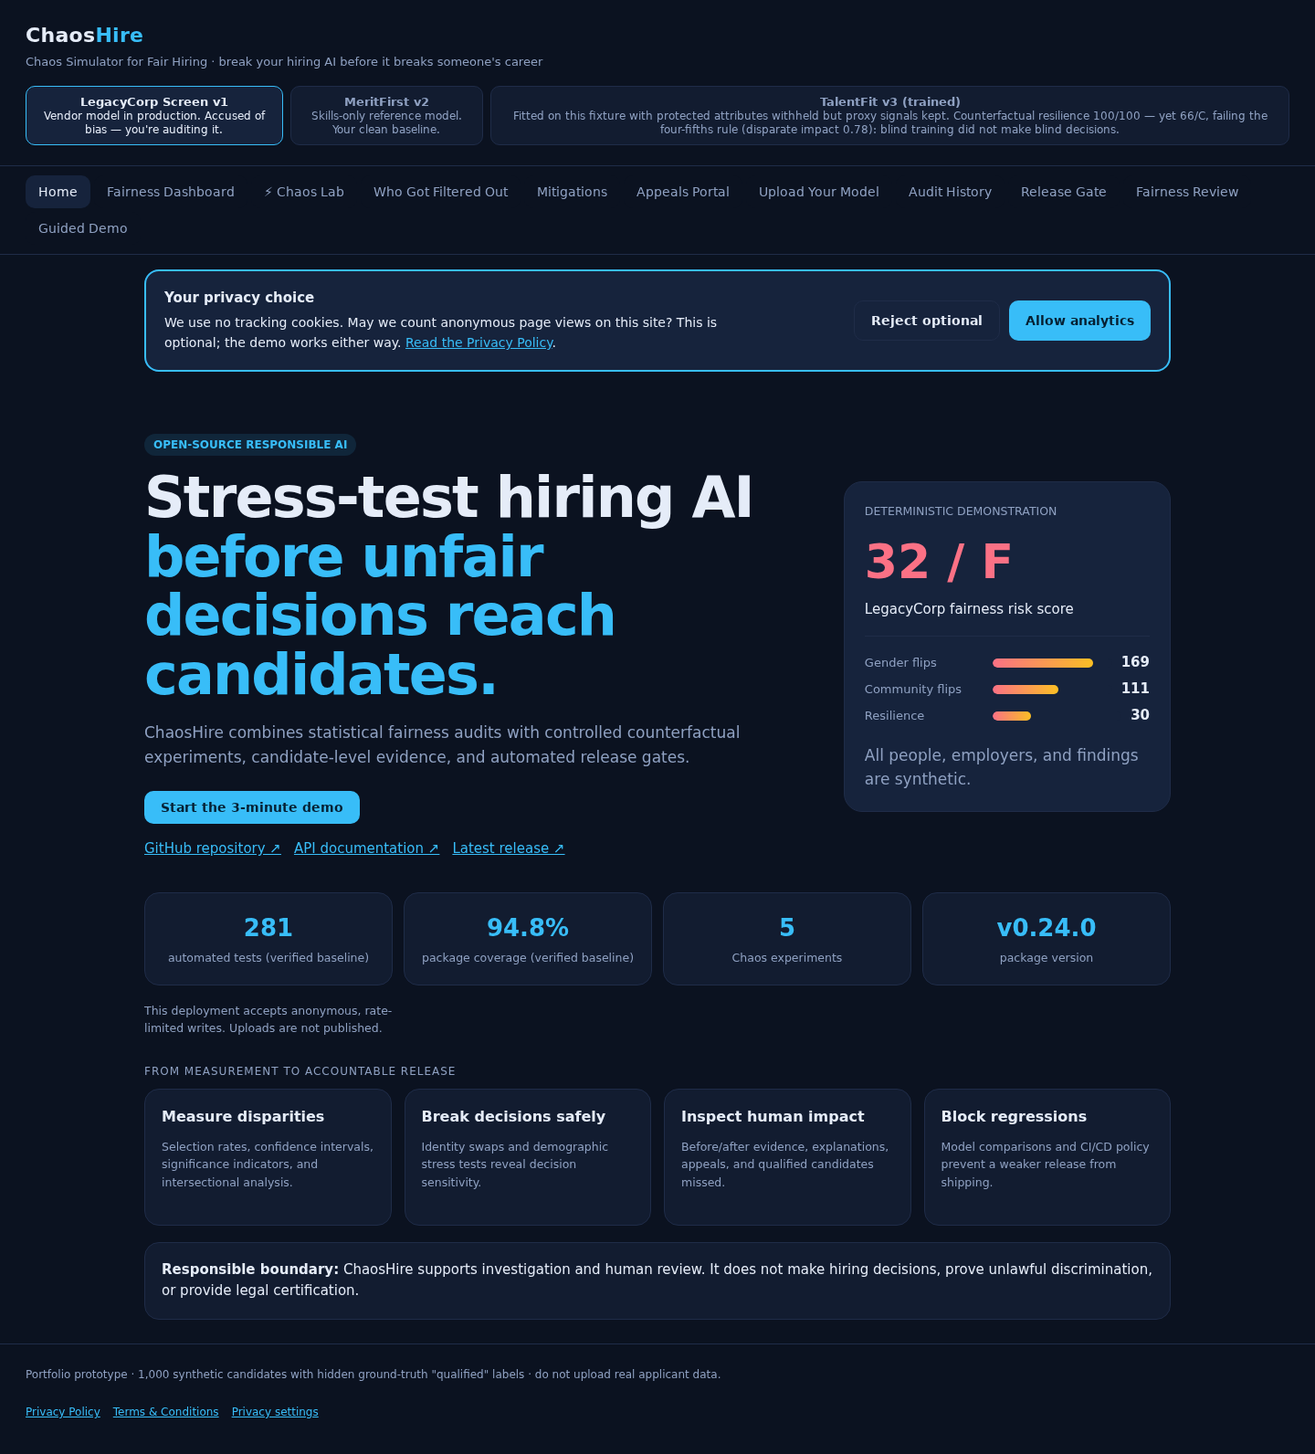
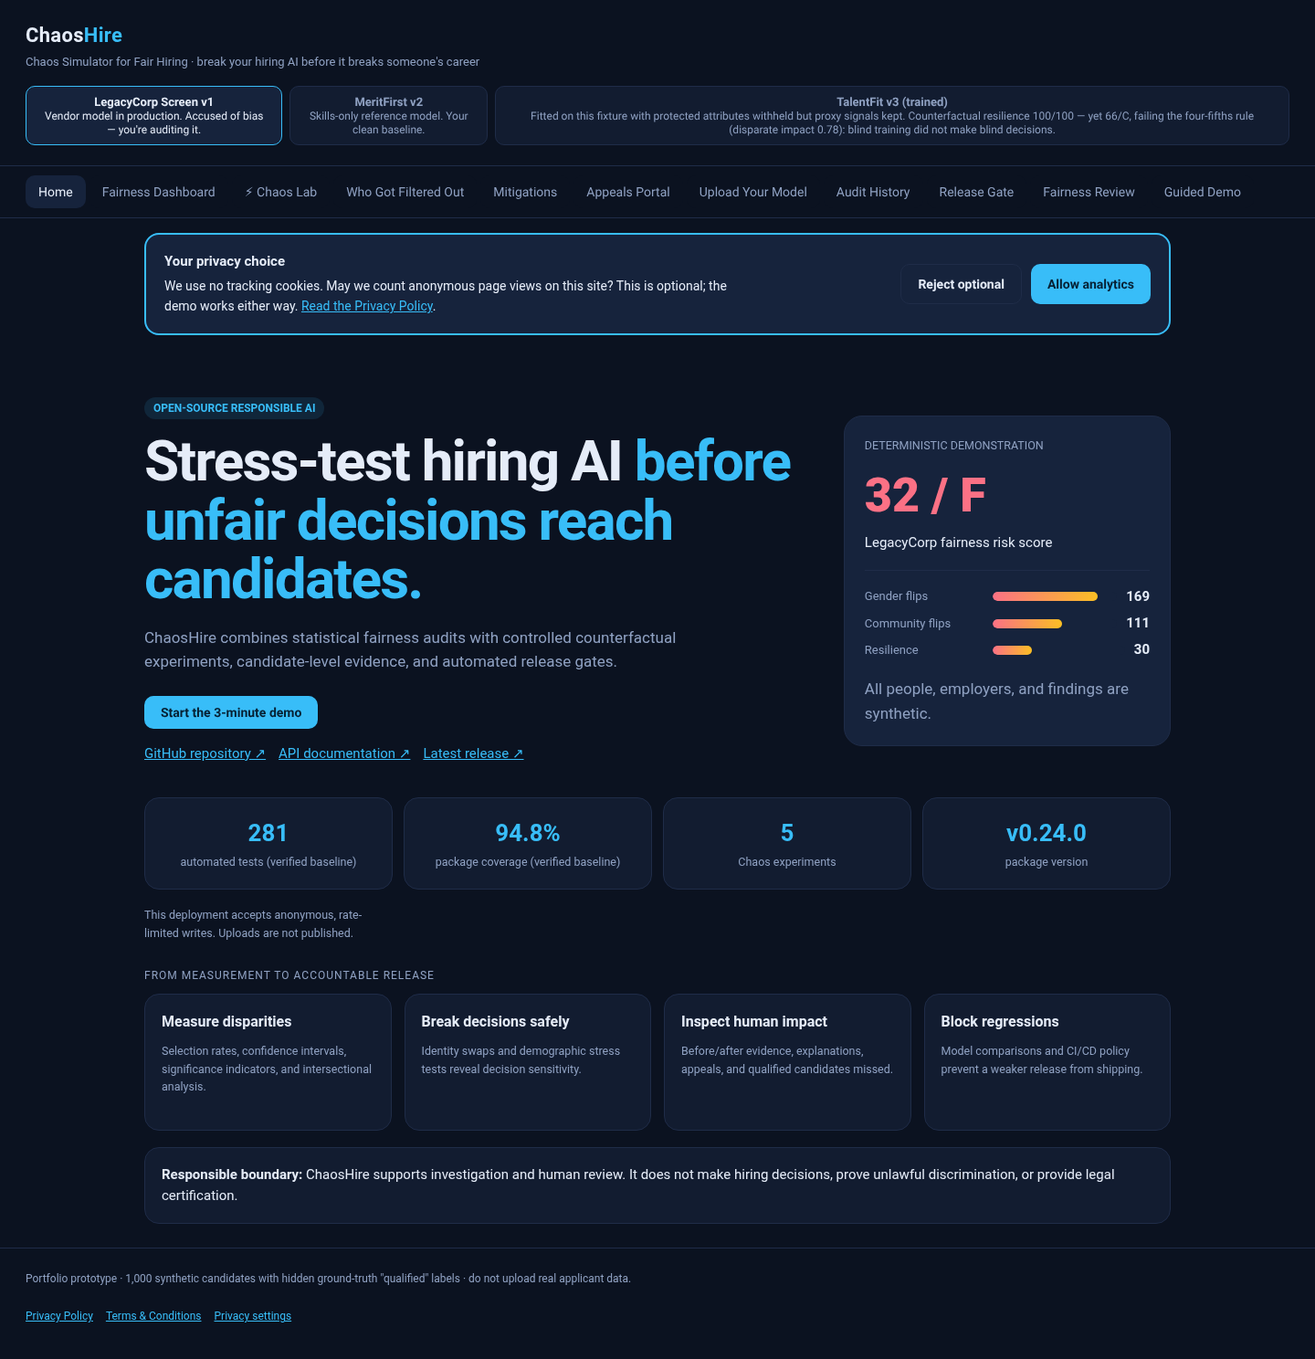
Fix the three card-overflow layout bugs and sweep every tab in the checks
Layout fixes (CSS only, no redesign):
- Fairness Dashboard score card: the .flex-card row now wraps the 210px text
  column under the 120px score ring (and .flex-col can shrink via min-width:0)
  instead of spilling 69-111px outside the card and scrolling the page sideways
  at 1024px and 320px.
- Upload Your Model on phones: .g2/.g4 auto-fit tracks use the safe
  minmax(min(...,100%),1fr) floor and grid children get min-width:0, so the
  long <pre id="schema"> lines scroll inside their own box instead of dragging
  both cards to 1155px and the page ~800px wide.
- 320px cards in group-fairness, Release Gate and Fairness Review grids shrank
  their 1fr (minmax(auto,1fr)) tracks to content; minmax(0,1fr) plus the nested
  .upload-cols/.gate-cols/.history-detail-grid floors keep every card inside the
  viewport. Long unbreakable <code> evidence paths wrap (overflow-wrap:anywhere).

Checks now cover every tab:
- tests/browser/test_layout.py opens all 11 tabs at 1440/1024/390/320px and
  fails on page-level sideways scrolling or content escaping its .card,
  ignoring the Appeals honeypot and content inside overflow-x:auto boxes.
- scripts/check_live_site.py clicks through every tab in its Layout check
  instead of only the home page and /privacy.

Docs and evidence:
- Re-captured docs/portfolio/assets/*.png with Roboto installed (font-roboto);
  the dashboard shot no longer shows the score-card spill.
- WEBSITE-READINESS.md snapshot refreshed with Live site checks run #1
[…]

diff --git a/chaoshire/web/static/chaoshire.css b/chaoshire/web/static/chaoshire.css
@@ -22,8 +22,13 @@ nav button.on{background:var(--card2);color:var(--txt)}
 main{padding:26px 28px;max-width:1180px;margin:0 auto}
 .tab-heading{font-size:22px;margin:4px 0 18px}
 .grid{display:grid;gap:14px}
-.g4{grid-template-columns:repeat(auto-fit,minmax(220px,1fr))}
-.g2{grid-template-columns:repeat(auto-fit,minmax(340px,1fr))}
+/* Auto-fit tracks use min() so the floor never exceeds a narrow (or nested)
+   container, and grid children get min-width:0 so long unbreakable content
+   (the upload <pre>, code paths) scrolls/wraps inside its card instead of
+   stretching the track — the safe minmax(0,…) pattern. */
+.g4{grid-template-columns:repeat(auto-fit,minmax(min(220px,100%),1fr))}
+.g2{grid-template-columns:repeat(auto-fit,minmax(min(340px,100%),1fr))}
+.grid>*{min-width:0}
 .card{background:var(--card);border:1px solid var(--line);border-radius:16px;padding:18px}
 .card h3{font-size:15px;margin-bottom:10px}
 .stat-num{font-size:28px;font-weight:700}
@@ -55,6 +60,7 @@ label{font-size:12.5px;color:var(--dim);display:block;margin:10px 0 5px}
 .mit input{width:auto;margin-top:4px}
 .kicker{font-size:12px;text-transform:uppercase;letter-spacing:1px;color:var(--dim);margin:22px 0 10px}
 .err{background:rgba(251,113,133,.1);border:1px solid rgba(251,113,133,.4);color:var(--rose);padding:10px 14px;border-radius:10px;font-size:13px;margin-top:10px}
+code{overflow-wrap:anywhere}
 pre{background:var(--card2);padding:12px;border-radius:10px;font-size:12px;overflow:auto;border:1px solid var(--line)}
 footer{padding:24px 28px;color:var(--dim);font-size:12px;border-top:1px solid var(--line)}
 .hidden{display:none}
@@ -94,8 +100,11 @@ button:focus-visible,a:focus-visible,input:focus-visible,textarea:focus-visible,
 .lbl-auto{width:auto;flex:1}
 .lbl-wide{width:170px}
 .lbl-auto-nw{width:auto}
-.flex-card{display:flex;align-items:center;gap:14px}
-.flex-col{flex:1}
+/* The score card wraps the text column under the ring when the 120px ring and
+   the 210px text column cannot share one line, instead of spilling past the
+   card; min-width:0 keeps the column shrinkable inside narrow tracks. */
+.flex-card{display:flex;align-items:center;gap:14px;flex-wrap:wrap}
+.flex-col{flex:1 1 210px;min-width:0}
 .flex-row{display:flex;gap:8px;flex-wrap:wrap}
 .flex-row-between{display:flex;justify-content:space-between;gap:10px;align-items:start}
 .flex-row-center{display:flex;justify-content:space-between;align-items:center}
@@ -131,7 +140,7 @@ button:focus-visible,a:focus-visible,input:focus-visible,textarea:focus-visible,
 .nowrap{white-space:nowrap}
 .overflow-card{overflow:auto}
 .upload-privacy{color:var(--amber);border-color:rgba(251,191,36,.4);background:rgba(251,191,36,.08)}
-.upload-cols{display:grid;grid-template-columns:repeat(auto-fit,minmax(180px,1fr));gap:0 12px}
+.upload-cols{display:grid;grid-template-columns:repeat(auto-fit,minmax(min(180px,100%),1fr));gap:0 12px}
 .download-actions{margin-top:14px;display:flex;gap:8px;flex-wrap:wrap}
 .appeal-lookup{display:flex;gap:8px}
 .appeal-bar{margin:10px 0}
@@ -143,9 +152,9 @@ button:focus-visible,a:focus-visible,input:focus-visible,textarea:focus-visible,
 .history-overflow{overflow:auto;margin-top:12px}
 .history-detail{margin-top:14px}
 .history-detail-head{display:flex;justify-content:space-between;gap:12px;flex-wrap:wrap}
-.history-detail-grid{display:grid;grid-template-columns:repeat(4,1fr);margin-top:14px}
+.history-detail-grid{display:grid;grid-template-columns:repeat(4,minmax(0,1fr));margin-top:14px}
 .history-detail-note{margin-top:12px}
-.gate-cols{display:grid;grid-template-columns:repeat(auto-fit,minmax(180px,1fr));gap:0 12px}
+.gate-cols{display:grid;grid-template-columns:repeat(auto-fit,minmax(min(180px,100%),1fr));gap:0 12px}
 .details-evidence{margin-top:10px}
 .details-evidence summary{cursor:pointer;color:var(--blue)}
 .details-evidence-inner{overflow:auto;margin-top:7px}
@@ -164,7 +173,7 @@ button:focus-visible,a:focus-visible,input:focus-visible,textarea:focus-visible,
 .review-title{margin-top:9px}
 
 @media(max-width:760px){.hero{grid-template-columns:1fr;padding-top:28px}.proof{grid-template-columns:repeat(2,1fr)}}
-@media(max-width:600px){header,nav,main,footer{padding-left:14px;padding-right:14px}.g2{grid-template-columns:1fr}.modelsel{width:100%;display:grid;grid-template-columns:repeat(2,minmax(0,1fr));overflow:visible}.mbtn{min-width:0;min-height:44px;padding:10px 8px;overflow-wrap:anywhere}.mbtn:last-child{grid-column:1/-1}nav{flex-wrap:nowrap;overflow-x:auto}nav button{white-space:nowrap;min-height:44px}.card{padding:14px}.stat-num{font-size:24px}.btn{min-height:44px}table{min-width:620px}.hero h2{font-size:38px;letter-spacing:-1px}.proof{grid-template-columns:1fr 1fr}.hero-panel{padding:16px}}
+@media(max-width:600px){header,nav,main,footer{padding-left:14px;padding-right:14px}.g2{grid-template-columns:minmax(0,1fr)}.modelsel{width:100%;display:grid;grid-template-columns:repeat(2,minmax(0,1fr));overflow:visible}.mbtn{min-width:0;min-height:44px;padding:10px 8px;overflow-wrap:anywhere}.mbtn:last-child{grid-column:1/-1}nav{flex-wrap:nowrap;overflow-x:auto}nav button{white-space:nowrap;min-height:44px}.card{padding:14px}.stat-num{font-size:24px}.btn{min-height:44px}table{min-width:620px}.hero h2{font-size:38px;letter-spacing:-1px}.proof{grid-template-columns:1fr 1fr}.hero-panel{padding:16px}}
 /* Public pages, consent preferences, and validated demo forms. */
 [hidden]{display:none!important}
 .brand-link{color:var(--txt);font-size:22px;font-weight:700;letter-spacing:.3px;text-decoration:none}

diff --git a/tests/browser/test_layout.py b/tests/browser/test_layout.py
@@ -1,0 +1,142 @@
+"""Every tab must fit both the viewport and its cards at phone and desktop widths.
+
+Regression sweep for three layout bugs found by opening every tab at
+1440/1280/1024/768/390/320px in Chromium:
+
+1. the Fairness Dashboard score card let the 210px text column beside the
+   120px score ring spill past the card (and the page scrolled sideways at
+   1024px and 320px);
+2. on phones the Upload tab's ``<pre id="schema">`` stretched the ``.g2``
+   track (``1fr`` is ``minmax(auto,1fr)``), so both cards became as wide as
+   the longest schema line and the page scrolled ~800px sideways;
+3. the same ``1fr`` pattern let a few cards outgrow their track by 4-28px at
+   320px (group-fairness, Release Gate and Fairness Review cards).
+
+Two kinds of deliberate overflow are excluded from the card-escape check: the
+Appeals honeypot (the "Leave this blank" field sits off-screen on purpose as a
+spam trap) and anything inside a horizontally scrollable box (the "Who Got
+Filtered Out" table and the schema block scroll inside their own borders by
+design).
+"""
+
+from __future__ import annotations
+
+from playwright.sync_api import Page, sync_playwright
+from test_landing import running_app
+
+#: (width, height) pairs the layout bugs were originally reported at.
+VIEWPORTS = ((1440, 1000), (1024, 800), (390, 844), (320, 700))
+
+#: Every product tab, in the order the nav renders them.
+TAB_IDS = (
+    "welcome",
+    "overview",
+    "chaos",
+    "filtered",
+    "mitigations",
+    "appeals",
+    "upload",
+    "history",
+    "compare",
+    "agent",
+    "demo",
+)
+
+#: JS predicate that is true once a tab's content has finished rendering.
+#: Five tabs fetch their payload inside ``showTab``; measuring before the
+#: fetch resolves would race the loader and only test the spinner card.
+TAB_READY = {
+    "welcome": "() => !!document.querySelector('#tab-welcome .hero')",
+    "overview": "() => !!document.querySelector('#tab-overview .grid')",
+    "chaos": "() => !!document.querySelector('#tab-chaos .card')",
+    "filtered": "() => !!document.querySelector('#tab-filtered .grid')",
+    "mitigations": "() => !!document.querySelector('#tab-mitigations .mit')",
+    "appeals": "() => !!document.querySelector('#tab-appeals .appeal-lookup')",
+    "upload": "() => !!document.querySelector('#tab-upload #schema')",
+    "history": (
+        "() => {const s = document.querySelector('#tab-history');"
+        "return !!s.querySelector('.history-overflow') || s.textContent.includes('No saved audits yet');}"
+    ),
+    "compare": "() => !!document.querySelector('#cmpout .grid')",
+    "agent": "() => !!document.querySelector('#tab-agent .agent-head')",
+    "demo": "() => !!document.querySelector('#tab-demo .demo-steps')",
+}
+
+#: Collect every element that escapes its nearest ``.card``. Excluded by
+#: design: the honeypot spam trap and content inside overflow-x:auto/scroll
+#: boxes (tables and ``<pre>`` blocks scroll within their own borders).
+CARD_ESCAPE_PROBE = r"""
+() => {
+  const escapes = [];
+  const rendered = el => {
+    const cs = getComputedStyle(el);
+    return cs.display !== 'none' && cs.visibility !== 'hidden';
+  };
+  for (const card of document.querySelectorAll('.card')) {
+    if (!card.offsetParent && getComputedStyle(card).position !== 'fixed') continue;
+    const cr = card.getBoundingClientRect();
+    if (cr.width === 0) continue;
+    for (const el of card.querySelectorAll('*')) {
+      if (el.closest('.honeypot')) continue;
+      if (!rendered(el)) continue;
+      let scrollable = false;
+      for (let p = el.parentElement; p && p !== card.parentElement; p = p.parentElement) {
+        if (['auto', 'scroll'].includes(getComputedStyle(p).overflowX)) {
+          scrollable = true;
+          break;
+        }
+        if (p === card) break;
+      }
+      if (scrollable) continue;
+      const r = el.getBoundingClientRect();
+      if (r.width === 0 && r.height === 0) continue;
+      const over = {
+        left: Math.max(0, cr.left - r.left),
+        right: Math.max(0, r.right - cr.right),
+        top: Math.max(0, cr.top - r.top),
+        bottom: Math.max(0, r.bottom - cr.bottom),
+      };
+      if (Math.max(over.left, over.right, over.top, over.bottom) > 1) {
+        escapes.push({
+          tag: el.tagName.toLowerCase(),
+          cls: String(el.className).slice(0, 60),
+          over,
+          text: (el.textContent || '').trim().slice(0, 40),
+        });
+      }
+    }
+  }
+  return escapes;
+}
+"""
+
+
+def _assert_tab_fits(page: Page, width: int, tab: str) -> None:
+    overflow = page.evaluate("document.documentElement.scrollWidth - window.innerWidth")
+    escapes = page.evaluate(CARD_ESCAPE_PROBE)
+    details = "; ".join(
+        f"<{item['tag']} class={item['cls']!r}> sticks out {item['over']} (…{item['text']!r})"
+        for item in escapes[:6]
+    )
+    assert overflow <= 0, f"{width}px {tab}: page scrolls sideways by {overflow}px"
+    assert not escapes, f"{width}px {tab}: content escapes its .card: {details}"
+
+
+def test_every_tab_fits_the_viewport_and_its_cards() -> None:
+    with running_app() as url, sync_playwright() as playwright:
+        browser = playwright.chromium.launch()
+        try:
+            for width, height in VIEWPORTS:
+                context = browser.new_context(
+                    viewport={"width": width, "height": height}, service_workers="block"
+                )
+                page = context.new_page()
+                page.goto(url, wait_until="load")
+                page.wait_for_selector("#tabs button[data-t='welcome']", timeout=15_000)
+                for tab in TAB_IDS:
+                    page.locator(f'#tabs button[data-t="{tab}"]').click()
+                    page.wait_for_function(TAB_READY[tab], timeout=30_000)
+                    _assert_tab_fits(page, width, tab)
+                context.close()
+        finally:
+            browser.close()

diff --git a/scripts/check_live_site.py b/scripts/check_live_site.py
@@ -8,8 +8,9 @@ what visitors get. This script checks the running site itself:
 * the HTTP -> HTTPS redirect, HSTS, and the other security headers;
 * the analytics endpoints reject bad input and keep counts operator-only;
 * every link on the public pages resolves;
-* in Chromium: no horizontal overflow at 1440/390/320px, all three model
-  choices visible, no analytics beacon before consent, Reject and Allow behave;
+* in Chromium: no horizontal overflow on any tab (clicked through in turn) at
+  1440/390/320px, all three model choices visible, no analytics beacon before
+  consent, Reject and Allow behave;
 * warm server response times and real-browser page speed.
 
     python -m pip install -r requirements-browser.txt
@@ -68,6 +69,28 @@ ROUTES: list[tuple[str, int, str, dict[str, str]]] = [
     ("/api/this-does-not-exist", 404, "application/json", {}),
 ]
 LINK_PAGES = ("/", "/privacy", "/terms")
+
+#: Every product tab, with the JS predicate that is true once its content has
+#: finished rendering. Five tabs fetch their payload inside ``showTab``, so the
+#: layout check has to wait for the fetch instead of racing the loader. Kept in
+#: sync with ``tests/browser/test_layout.py``, which runs the same sweep (plus a
+#: card-escape probe) locally on every browser run.
+TAB_READY: dict[str, str] = {
+    "welcome": "() => !!document.querySelector('#tab-welcome .hero')",
+    "overview": "() => !!document.querySelector('#tab-overview .grid')",
+    "chaos": "() => !!document.querySelector('#tab-chaos .card')",
+    "filtered": "() => !!document.querySelector('#tab-filtered .grid')",
+    "mitigations": "() => !!document.querySelector('#tab-mitigations .mit')",
+    "appeals": "() => !!document.querySelector('#tab-appeals .appeal-lookup')",
+    "upload": "() => !!document.querySelector('#tab-upload #schema')",
+    "history": (
+        "() => {const s = document.querySelector('#tab-history');"
+        "return !!s.querySelector('.history-overflow') || s.textContent.includes('No saved audits yet');}"
+    ),
+    "compare": "() => !!document.querySelector('#cmpout .grid')",
+    "agent": "() => !!document.querySelector('#tab-agent .agent-head')",
+    "demo": "() => !!document.querySelector('#tab-demo .demo-steps')",
+}
 
 
 @dataclass
@@ -437,19 +460,28 @@ def check_browser(base: str, insecure: bool, results: Results) -> None:
                     "() => document.querySelectorAll('#modelsel button[data-m]').length >= 3",
                     timeout=30_000,
                 )
-                home_overflow = overflow(page)
                 choices = page.locator("#modelsel button[data-m]")
                 visible = sum(1 for i in range(choices.count()) if choices.nth(i).is_visible())
                 banner = page.get_by_role("button", name="Allow analytics").is_visible()
                 page.screenshot(path=str(EVIDENCE_DIR / f"home-{width}.png"), full_page=True)
+                # Click through every product tab: all three fixed layout bugs hid
+                # in tab content (score card, schema block, narrow grid cards), so
+                # checking only the home page would not have seen them.
+                tab_overflow: dict[str, int] = {}
+                for tab, ready in TAB_READY.items():
+                    page.locator(f'#tabs button[data-t="{tab}"]').click()
+                    page.wait_for_function(ready, timeout=60_000)
+                    tab_overflow[tab] = overflow(page)
+                worst_tab, worst_overflow = max(tab_overflow.items(), key=lambda item: item[1])
                 load(page, "/privacy")
                 legal_overflow = overflow(page)
                 page.screenshot(path=str(EVIDENCE_DIR / f"privacy-{width}.png"), full_page=True)
                 page.context.close()
                 results.check(
                     "Layout",
-                    home_overflow <= 0 and legal_overflow <= 0 and visible == 3,
-                    f"{width}px: horizontal overflow {max(home_overflow, 0)}px on home, "
+                    worst_overflow <= 0 and legal_overflow <= 0 and visible == 3,
+                    f"{width}px: horizontal overflow {max(worst_overflow, 0)}px on the "
+                    f"{worst_tab} tab (worst of {len(tab_overflow)} tabs), "
                     f"{max(legal_overflow, 0)}px on privacy; {visible}/3 model choices visible",
                 )
                 results.check(

diff --git a/docs/operations/WEBSITE-READINESS.md b/docs/operations/WEBSITE-READINESS.md
@@ -46,16 +46,25 @@ A merge does not prove a deploy on the hand-managed service, so [`.github/workfl
 - the HTTP→HTTPS redirect target, HSTS of at least one year, CSP without `unsafe-inline`, and the framing/sniffing/referrer headers;
 - that analytics rejects a non-allowlisted page (422, not counted) and hides counts without the operator key (401);
 - every link on the home, privacy, and terms pages;
-- in Chromium, at 1440/390/320px: no horizontal overflow, all three model choices visible, no analytics beacon before a choice, and correct Reject/Allow behaviour (the beacon is intercepted, so production counts are untouched);
+- in Chromium, at 1440/390/320px: no horizontal overflow while clicking through every product tab (Home to Guided Demo), all three model choices visible, no analytics beacon before a choice, and correct Reject/Allow behaviour (the beacon is intercepted, so production counts are untouched);
 - warm server timings and real-browser page speed, then a second job times a cold start after 17 idle minutes (Render's free instance spins down after 15).
 
 A site still serving an older build is reported as a warning, not a failure. Results appear as annotations and job summaries, and screenshots are kept as the `live-site-evidence` artifact. The same checks run locally with `python scripts/check_live_site.py --base-url https://chaoshire.onrender.com`.
 
 ## Live verification snapshot — 24 September 2026
 
-The source changes **have not reached** the existing Render deployment. The live `/api/ready` returned `{"status":"ready","database":"available"}`, but live `/api/meta` still advertised the previous release's figures (**270 / 94.7%**) rather than this checkout's (**281 / 94.8%**). Requests to the live `/privacy`, `/terms`, `/robots.txt`, `/sitemap.xml`, and `/social-preview.png` returned `{"detail":"Not Found"}`; the home page still showed the older CTA and proof figures. Locally, all five new routes return 200 with the expected content types.
+[Live site checks run #1](https://github.com/dommetipavan26-tech/chaoshire/actions/runs/35996308542) (the push after PR #38) passed **every** check against the hand-deployed Render service, which reported this release's build facts (v0.24.0, 281 tests, 94.8%, stylesheet digest matching that commit):
 
-Direct `curl` requests to the public HTTPS host failed a TLS handshake **from this sandbox**; an independent web fetcher could reach the live API. That sandbox-specific error does **not** establish a live TLS fault, but it prevents independent verification here of HTTP→HTTPS redirects, HSTS response headers, and production timing. The owner must check these from another network after deploying. No live analytics consent, external links, or legal contact channel was verified. The local suite passed **281 tests / 94.8% coverage**, the opt-in browser suite passed **4 tests**, and 21 local axe audits reported no violations (8 had clipped elements needing manual contrast review). A repeat five-run local speed sample measured 33 ms desktop / 30 ms 390px load events; these are not production figures.
+- all 11 routes returned the expected status and content type; privacy, terms and 404 pages carried their titles; robots.txt and sitemap.xml advertised the `https://chaoshire.onrender.com` origin; the social card is a 1200×630 PNG declared as `og:image`;
+- `http://chaoshire.onrender.com/privacy` redirected with 301 to the HTTPS origin, HTTPS `/api/ready` returned 200, HSTS was `max-age=31536000`, and the CSP (no `unsafe-inline`, `frame-ancestors 'none'`), `x-frame-options`, `nosniff` and `no-referrer` headers were all in place;
+- the analytics gate rejected a non-allowlisted page with 422 (nothing counted) and hid counts without the operator key (401);
+- all 14 checked links resolved (9 on this site, the rest external) across `/`, `/privacy`, and `/terms`;
+- in Chromium at 1440/390/320px the home page and `/privacy` showed no horizontal overflow and all three model choices were visible; no analytics beacon fired before a choice, and Reject/Allow behaved as specified (the beacon is intercepted, so production counts were untouched);
+- warm server medians were 206 ms to first byte on `/` (5 warm requests), and real-browser medians of three fresh visits were 335 ms TTFB / 724 ms load at 1440px and 226 ms TTFB / 450 ms load at 390px, with 16.8 KB of HTML on the wire. These are warm GitHub-runner measurements, not Indian field Core Web Vitals, a mobile-network benchmark or a Lighthouse score.
+
+The cold-start job did **not** capture a real cold start: the free instance stayed awake through the 17 idle minutes and answered the "cold" `GET /` in 0.33 s (the warm control answered in 0.28 s). Run **Actions → Live site checks → Run workflow** with **measure cold start** after Render logs a spin-down if a boot figure is needed; do not quote the 0.33 s as a cold start.
+
+The three layout fixes in this revision (score-card text column, phone-width Upload cards, narrow grid cards) landed after run #1 and will be covered by the next live run after the following deploy. Against this revision locally the full suite still passes 281 tests / 94.8% coverage, the opt-in browser suite passes five tests — including a new sweep that opens every tab at 1440/1024/390/320px and fails on sideways scrolling or content escaping a card — and 21 local axe audits report no violations (6 pages keep clipped elements that need manual contrast review).
 
 ## Owner checks before the live rollout
 
